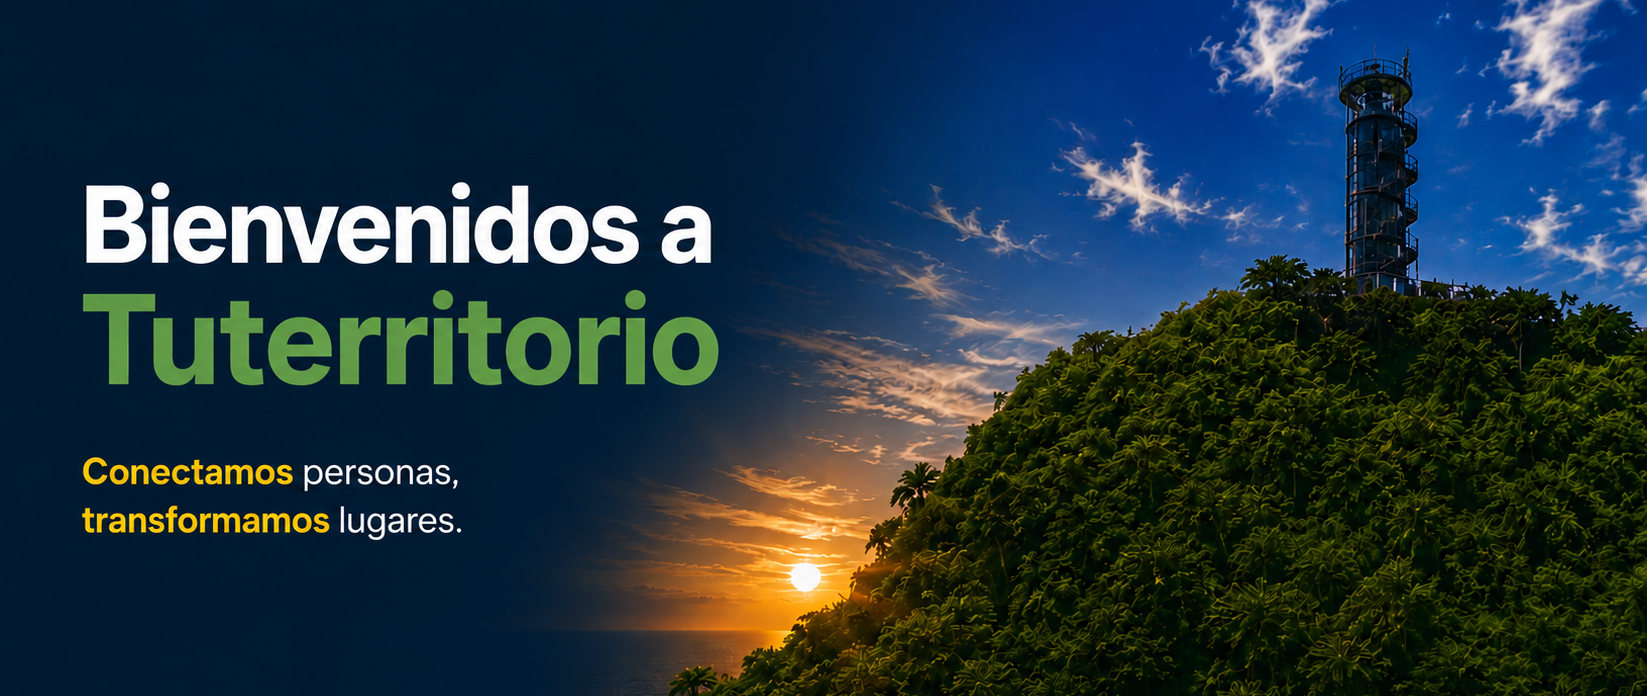
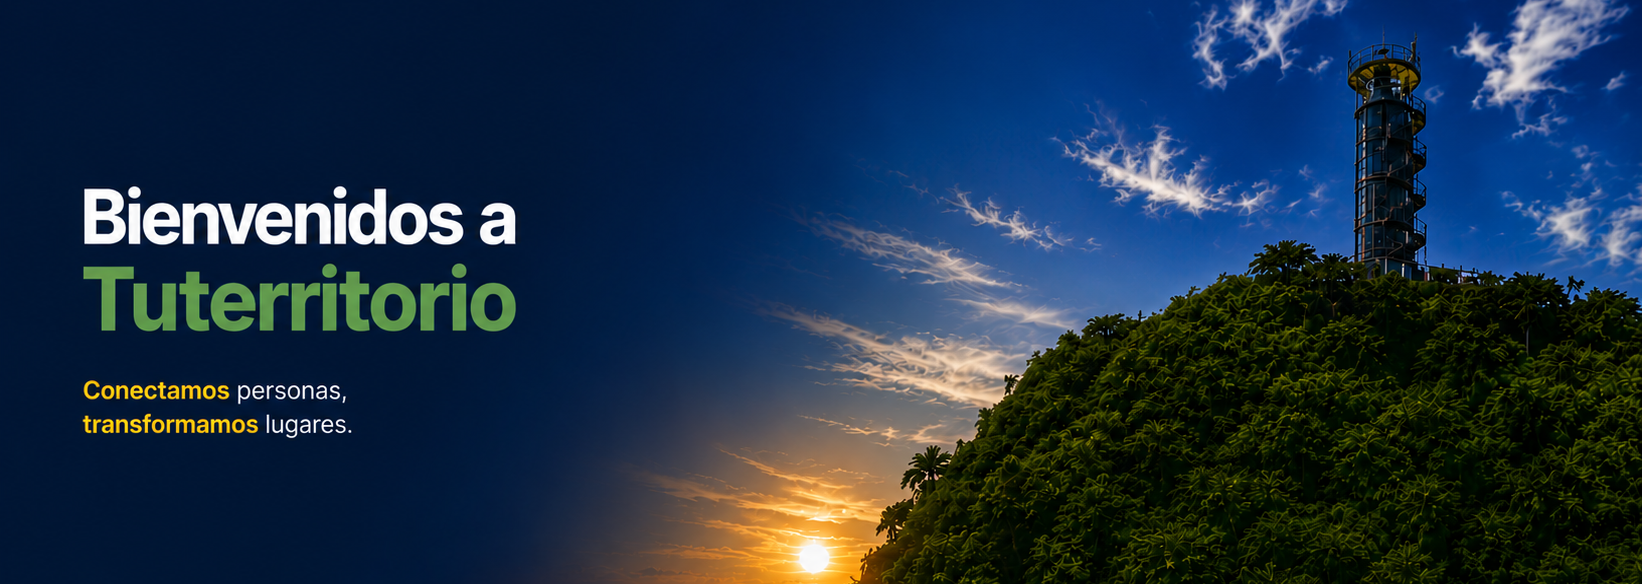
Seguridad: ruta de admin secreta via ADMIN_PATH (middleware); /admin directo da 404
- middleware: reescribe /<ADMIN_PATH> -> /admin y bloquea acceso directo a /admin
- el nombre real de la ruta vive solo en la variable de entorno (repo es publico)
- SiteChrome detecta el panel por segmento renderizado (funciona con reescritura)
- layout del panel con noindex; ADMIN_PATH documentado en .env.example

diff --git a/middleware.ts b/middleware.ts
@@ -1,0 +1,41 @@
+import { NextResponse } from "next/server";
+import type { NextRequest } from "next/server";
+
+/**
+ * Ruta secreta del panel de administración.
+ *
+ * El nombre real de la ruta vive SOLO en la variable de entorno `ADMIN_PATH`
+ * (en Vercel), nunca en el código (el repo es público). El panel interno está
+ * en `/admin`, pero:
+ *   - Acceso directo a `/admin` → 404 (no se puede entrar por ahí).
+ *   - Acceso a `/<ADMIN_PATH>` → se reescribe internamente a `/admin`.
+ *
+ * Si `ADMIN_PATH` no está configurada, se mantiene el comportamiento normal
+ * (acceso por `/admin`) para no quedar sin acceso por accidente.
+ */
+const ADMIN_PATH = process.env.ADMIN_PATH;
+
+export function middleware(req: NextRequest) {
+  const { pathname } = req.nextUrl;
+
+  if (!ADMIN_PATH) return NextResponse.next();
+
+  // Bloquea el acceso directo al panel interno.
+  if (pathname === "/admin" || pathname.startsWith("/admin/")) {
+    return new NextResponse("Not Found", { status: 404 });
+  }
+
+  // La ruta secreta reescribe (internamente) al panel.
+  if (pathname === `/${ADMIN_PATH}`) {
+    const url = req.nextUrl.clone();
+    url.pathname = "/admin";
+    return NextResponse.rewrite(url);
+  }
+
+  return NextResponse.next();
+}
+
+export const config = {
+  // Se ejecuta en rutas de página; excluye API, internos de Next y archivos.
+  matcher: ["/((?!api/|_next/|assets/|.*\\.).*)"],
+};

diff --git a/components/layout/SiteChrome.tsx b/components/layout/SiteChrome.tsx
@@ -1,17 +1,18 @@
 "use client";
 
-import { usePathname } from "next/navigation";
+import { useSelectedLayoutSegment } from "next/navigation";
 import Header from "@/components/layout/Header";
 import Footer from "@/components/layout/Footer";
 
 /**
  * Decide si mostrar la estructura del sitio (encabezado, pie, etc.).
- * En /admin se devuelve solo el contenido: una página independiente (en blanco)
- * con el formulario de inicio de sesión.
+ * En el panel (segmento "admin") se devuelve solo el contenido: una página
+ * independiente con el formulario de inicio de sesión. Se usa el SEGMENTO
+ * renderizado (no la URL) para que funcione aunque se entre por la ruta secreta.
  */
 export default function SiteChrome({ children }: { children: React.ReactNode }) {
-  const pathname = usePathname();
-  const bare = pathname === "/admin" || pathname.startsWith("/admin/");
+  const segment = useSelectedLayoutSegment();
+  const bare = segment === "admin";
 
   if (bare) return <>{children}</>;
 

diff --git a/app/admin/layout.tsx b/app/admin/layout.tsx
@@ -1,0 +1,10 @@
+import type { Metadata } from "next";
+
+// El panel nunca debe indexarse en buscadores.
+export const metadata: Metadata = {
+  robots: { index: false, follow: false },
+};
+
+export default function AdminLayout({ children }: { children: React.ReactNode }) {
+  return <>{children}</>;
+}